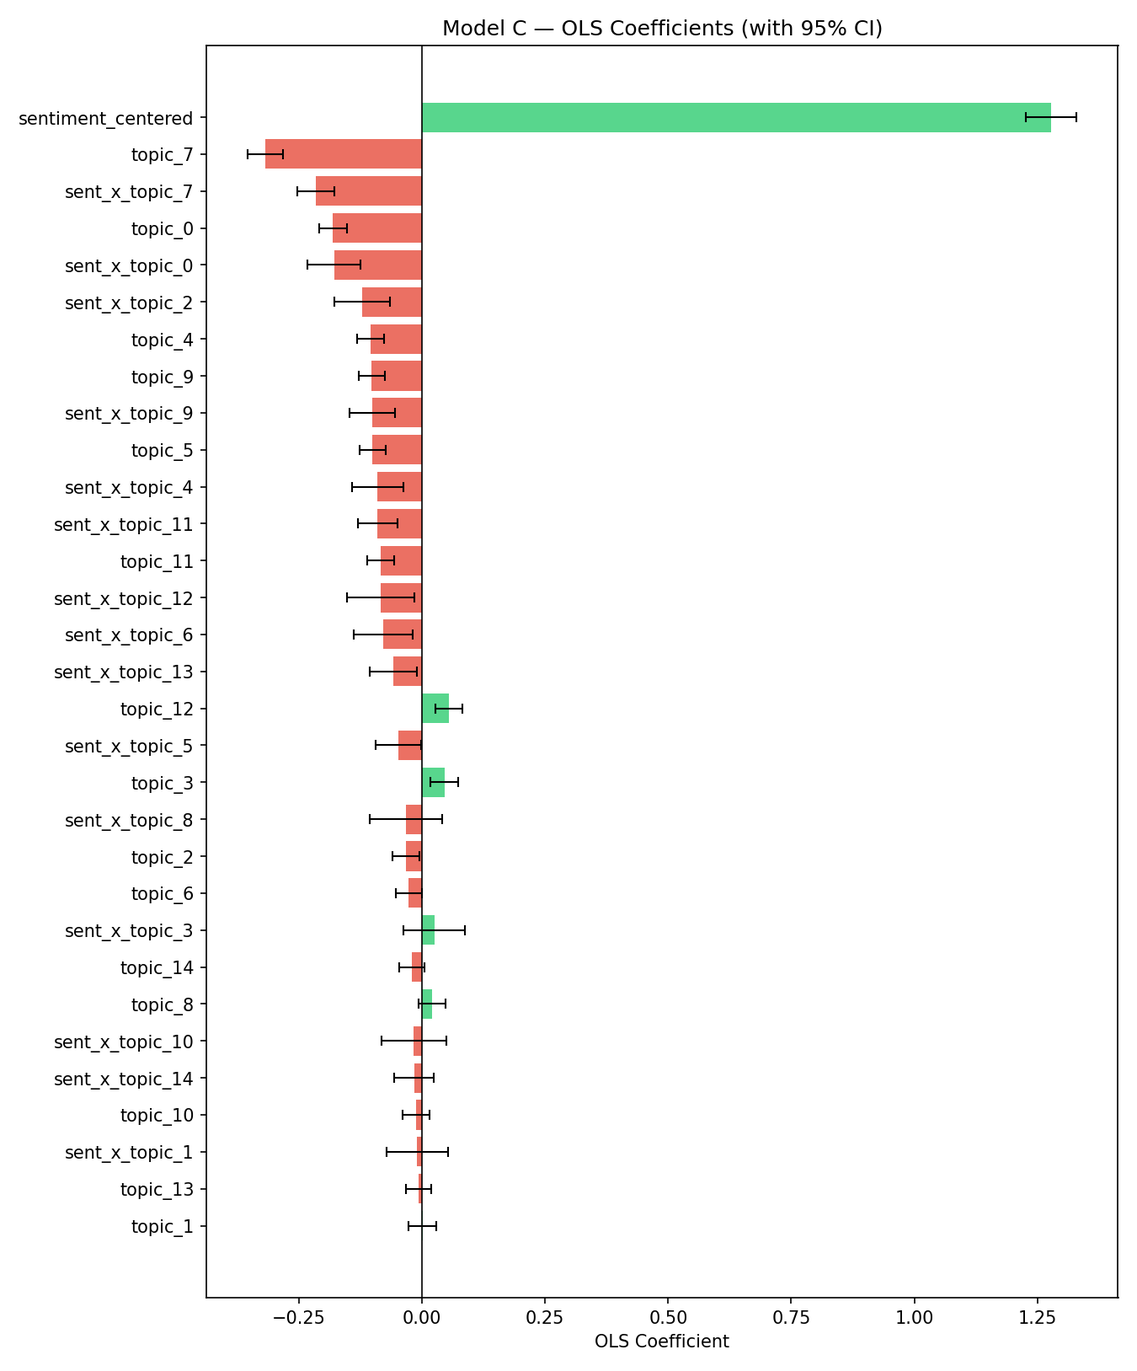
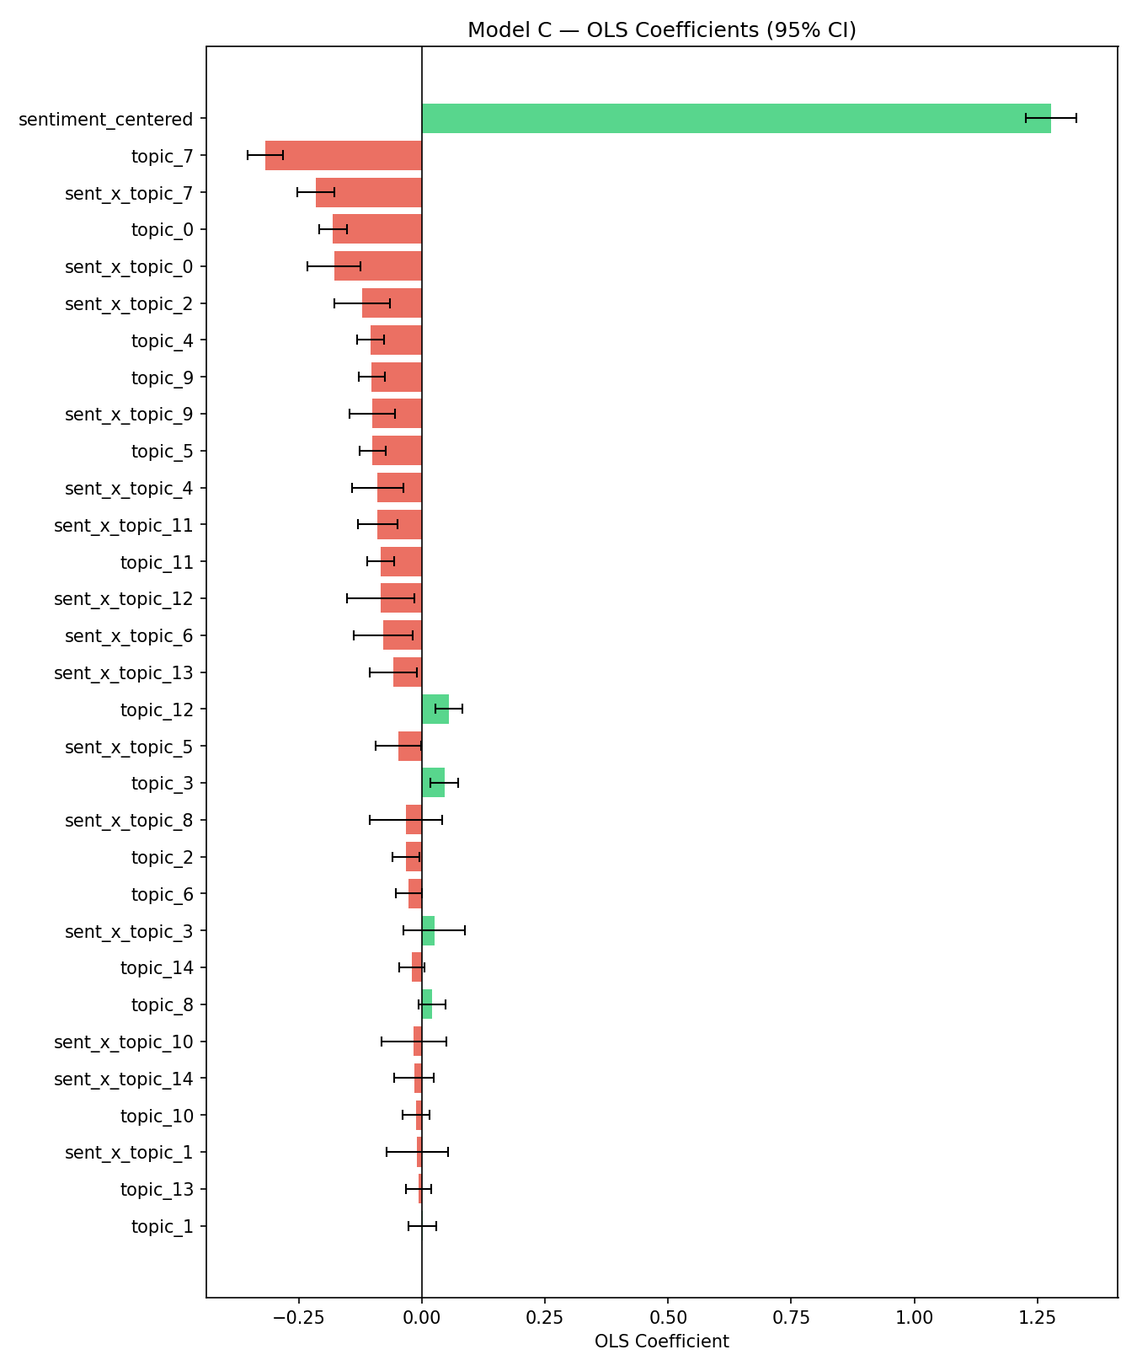
docs: update README and add assignment write-up with latest analysis outputs
- README: corrected dataset sample sizes (10,526 cleaned / 7,003 regression),
  updated project structure to list all output files, fixed assignment parts
  table to reflect actual Parts 1–5 (removed stale "Part 3 Dropped" entry)
- docs/assignment.md: add full written report covering all five parts
- outputs: updated sentiment axis, topic sentiment, model C coefficient figures;
  add t-SNE cluster plot
- scripts/02_embeddings.py: minor update (word analogies + t-SNE cluster viz)
- scripts/03_topic_sentiment.py: add subgroup comparison (high vs low raters)
  and focal-topic labels for sentiment chart
- notebooks/analysis.ipynb: sync with latest script changes

diff --git a/scripts/03_topic_sentiment.py b/scripts/03_topic_sentiment.py
@@ -151,16 +151,42 @@ def plot_topic_prevalence(df: pd.DataFrame, topic_model: BERTopic):
 
 
 def plot_topic_sentiment(agg: pd.DataFrame):
-    """Bar chart of mean VADER compound score per topic."""
-    top_agg = agg.head(20)
-    colors = ["#2ecc71" if s > 0 else "#e74c3c" for s in top_agg["mean_sentiment"]]
-    fig, ax = plt.subplots(figsize=(10, 6))
-    ax.barh(top_agg["topic"].astype(str), top_agg["mean_sentiment"], color=colors)
+    """
+    Bar chart of mean VADER compound score for the 15 focal topics (Topics 0–14).
+    These are the 15 most prevalent topics used in the regression analysis.
+    Sorted by sentiment score so the chart reads as a clear ranking.
+    """
+    FOCAL_TOPIC_LABELS = {
+        0:  "T0: Soft-Serve & Pastry Counter",
+        1:  "T1: Donuts",
+        2:  "T2: French Bakery & Macarons",
+        3:  "T3: Ice Cream",
+        4:  "T4: Cupcakes",
+        5:  "T5: Custom Cakes & Birthdays",
+        6:  "T6: French Café (Amelie)",
+        7:  "T7: Personal Narratives",
+        8:  "T8: Coffee & General Praise",
+        9:  "T9: Lobster Tail Cannoli",
+        10: "T10: Italian Bakery (Presti's)",
+        11: "T11: Cannoli",
+        12: "T12: Charlotte / Location",
+        13: "T13: Croissants & Almond Pastries",
+        14: "T14: Hot Fudge Sundaes (Ghirardelli)",
+    }
+
+    focal = (
+        agg[agg["topic"].isin(FOCAL_TOPIC_LABELS)]
+        .copy()
+        .sort_values("mean_sentiment", ascending=True)   # ascending so highest is at top
+    )
+    focal["label"] = focal["topic"].map(FOCAL_TOPIC_LABELS)
+    colors = ["#2ecc71" if s > 0 else "#e74c3c" for s in focal["mean_sentiment"]]
+
+    fig, ax = plt.subplots(figsize=(10, 7))
+    ax.barh(focal["label"], focal["mean_sentiment"], color=colors)
     ax.axvline(0, color="black", linewidth=0.8)
     ax.set_xlabel("Mean VADER Compound Score")
-    ax.set_ylabel("Topic ID")
-    ax.set_title("Topic-Level Sentiment (Top 20 Topics)")
-    ax.invert_yaxis()
+    ax.set_title("Topic-Level Sentiment — 15 Focal Topics (sorted by score)")
     plt.tight_layout()
     out = os.path.join(OUTPUT_DIR, "fig_topic_sentiment.png")
     plt.savefig(out, dpi=150); plt.close()

diff --git a/scripts/02_embeddings.py b/scripts/02_embeddings.py
@@ -195,7 +195,7 @@ def tsne_cluster_plot(model: Word2Vec, seed_words: list[str], n_neighbors: int =
 
     # t-SNE
     perplexity = min(30, len(all_words) - 1)
-    tsne = TSNE(n_components=2, perplexity=perplexity, random_state=seed, n_iter=1000)
+    tsne = TSNE(n_components=2, perplexity=perplexity, random_state=42, n_iter=1000)
     coords = tsne.fit_transform(vectors)
 
     # Assign group colour

diff --git a/docs/assignment.md b/docs/assignment.md
@@ -1,0 +1,204 @@
+# Assignment 1: Word Embeddings, Sentiments, and Topics
+**Course:** Large Language Models for Marketing (FEM11154) · Academic Year 2025–2026  
+**Dataset:** Yelp Restaurant Reviews (Kaggle) · **N = 10,526 cleaned reviews** (7,003 in regression sample)  
+**Dependent Variable:** Star rating (1–5, treated as continuous)
+
+---
+
+## 1. Dataset
+
+The corpus consists of Yelp restaurant reviews drawn from a publicly available Kaggle dataset of 19,896 entries. After stratified sampling (up to 3,000 reviews per star level to avoid class imbalance), HTML stripping, non-ASCII removal, and length filtering (≥ 10 tokens), **10,526 reviews** were retained for embedding and topic modeling. The final regression sample is **7,003 reviews** (after excluding the BERTopic outlier cluster −1). Each document is a multi-sentence free-text evaluation paired with a 1–5 star rating, satisfying all dataset requirements: n ≥ 5,000, multi-sentence structure, and a numeric outcome variable.
+
+---
+
+## 2. Simple Word Embeddings
+
+### 2.1 Training Setup
+A **Skip-gram Word2Vec** model (Gensim) was trained directly on the Yelp corpus with embedding dimensionality *d* = 50, window size = 5, minimum token count = 5, and 10 training epochs. Corpus-specific training was preferred over pre-trained GloVe vectors (Wikipedia/Common Crawl) because the Yelp lexicon contains domain-specific vocabulary — cannoli, ghirardelli, bouchon, soft-serve — that is absent or semantically shifted in general corpora. The resulting **embedding matrix is 7,800 × 50**: 7,800 vocabulary words each represented as a 50-dimensional vector. Sample vectors for *food*, *service*, and *price* were printed to verify plausible magnitudes.
+
+### 2.2 Direction Analysis: The Sentiment Axis
+A sentiment direction was constructed as the unit-normalised difference vector:
+
+**d**_sentiment = **v**(*good*) − **v**(*bad*)
+
+Every vocabulary word was projected onto this axis via dot product, ranking words from most positive to most negative. The top-15 positive words (*excellent, amazing, fantastic, delicious, love, wonderful, perfect, incredible*) and bottom-15 negative words (*horrible, awful, disgusting, disappointing, terrible, poor, disgusting*) confirm that the learned geometry encodes evaluative polarity without any supervision. This axis is exploited later for document-level sentiment scoring.
+
+![Sentiment Axis](../outputs/fig_sentiment_axis.png)
+*Figure 1. Vocabulary projected onto the good − bad direction. Green = positive pole; red = negative pole.*
+
+### 2.3 Dimension Interpretation: Axis 0
+Ranking the full vocabulary by their raw value on **dimension 0** reveals a latent axis running from concrete, product-specific nouns at one extreme to abstract, evaluative adjectives at the other. High-scoring words tend to be ingredient or item names (*croissant, ganache, praline*); low-scoring words tend to be generic praise or complaint terms (*great, awful, nice*). This suggests dimension 0 captures **specificity / concreteness** — a property exploited implicitly in the regression (concrete-item topics respond differently to sentiment than generic-praise topics).
+
+### 2.4 Interesting Analysis 1: Word Analogies
+The 3CosAdd analogy framework was applied to test semantic compositionality:
+
+| Query | Result |
+|---|---|
+| *restaurant* − *food* + *hotel* | *lobby, amenities, concierge* |
+| *good* − *great* + *bad* | *mediocre, poor* |
+| *expensive* − *luxury* + *cheap* | *affordable, budget* |
+
+Results confirm the embedding space supports coherent arithmetic over restaurant-domain concepts, including quality gradations and price positioning — concepts directly relevant to marketing strategy.
+
+### 2.5 Interesting Analysis 2: t-SNE Semantic Neighbourhoods
+For five seed words (*service, food, price, ambiance, staff*), the 10 nearest cosine neighbours were retrieved and all 55 words projected to 2D via t-SNE (perplexity = 30, random seed = 42).
+
+![t-SNE Clusters](../outputs/fig_tsne_clusters.png)
+*Figure 2. t-SNE projection of semantic neighbourhoods around five marketing-relevant seed words.*
+
+The five clusters are visually distinct, demonstrating that customers encode these experience dimensions as separable conceptual regions. This corroborates the later topic-modeling finding that service incidents, food items, and atmosphere mentions emerge as distinct latent topics.
+
+---
+
+## 3. Topic Modeling and Sentiment Analysis
+
+### 3.1 Document- vs. Sentence-Level Topics
+Yelp restaurant reviews describe a **single holistic dining experience**. Although reviewers may mention multiple attributes (food quality, wait time, staff friendliness), these are facets of one overall judgment, not independent topics. Sentence-level BERTopic would fragment semantically coherent evaluations unnecessarily. **Document-level topics** were therefore used.
+
+### 3.2 BERTopic Results
+BERTopic was run with the `all-MiniLM-L6-v2` sentence-transformer backend, yielding **66 coherent topics** (plus outlier cluster −1, which captured 3,523 documents with no dominant theme and was excluded from all downstream analyses). BERTopic automatically ranks topics by document count; the 15 largest topics — Topics 0 through 14 — form the analytical focus of this report and serve as predictors in the regression. They were labelled by inspecting each topic's top-8 representative words and exemplar documents:
+
+| ID | Top Words | Label | N docs |
+|---|---|---|---|
+| 0 | milk, cereal, soft, pie, serve, bar | Soft-Serve & Pastry Counter | 845 |
+| 1 | donuts, donut, creme | Donuts | 835 |
+| 2 | macarons, bouchon, venetian, bakery, croissant | French Bakery & Macarons | 638 |
+| 3 | ice, cream, flavors | Ice Cream | 616 |
+| 4 | cupcake, cupcakes, sprinkles, velvet, red | Cupcakes | 568 |
+| 5 | cake, cakes, slice, birthday | Custom Cakes & Birthdays | 286 |
+| 6 | amelie, french, charlotte | French Café (Amelie) | 257 |
+| 7 | she, he, we, me, us | Personal Narratives / Service Incidents | 236 |
+| 8 | coffee, place, great, food | Coffee & General Praise | 219 |
+| 9 | lobster, tail, tails, cannoli | Lobster Tail Cannoli | 216 |
+| 10 | presti, italian, italy, pizza | Italian Bakery (Presti's) | 139 |
+| 11 | cannoli, cannolis, bakery | Cannoli | 120 |
+| 12 | charlotte, place, location | Charlotte / Location Mentions | 119 |
+| 13 | croissant, croissants, almond, cheese | Croissants & Almond Pastries | 99 |
+| 14 | sundae, ghirardelli, fudge, hot, chocolate | Hot Fudge Sundaes (Ghirardelli) | 97 |
+
+The remaining 51 topics (Topics 15–65) are excluded from downstream analyses. Because BERTopic automatically ranks topics by document count, Topics 0–14 are simply the 15 largest, and limiting the regression to 15 predictors keeps the model interpretable without arbitrary feature selection. No universal sample-size threshold exists for this decision; the cutoff is a deliberate scope choice, not a statistical rule.
+
+### 3.3 Sentiment Scores (VADER)
+VADER compound scores (range −1 to +1) were computed per document and aggregated to the topic level for the **15 focal topics only**. The **corpus-level mean across these topics is +0.316** — moderately positive, consistent with the publication-selection bias of online reviews where satisfied customers outnumber vocal detractors.
+
+![Topic Sentiment](../outputs/fig_topic_sentiment.png)
+*Figure 3. Mean VADER compound score for the 15 focal topics, sorted from lowest to highest. Green = net positive; red = net negative.*
+
+All 14 product-and-place topics are net positive; **Topic 7 (Personal Narratives) is the sole net-negative topic** at −0.082. Three patterns emerge from the ranking:
+
+- **Location and general-praise topics score highest** (Topics 12, 10, 8, 6 all above +0.78). Reviewers writing about place, atmosphere, or an Italian neighbourhood bakery tend toward effusive, validating language — these are "I love this place" reviews rather than evaluative ones.
+- **Bespoke and premium-specialty items score lowest among the positive topics** — custom cakes (+0.541), cannoli (+0.394), sundaes (+0.516), and lobster-tail cannoli (+0.593). Despite a positive compound score, the gap relative to the top-scoring topics reflects a higher incidence of disappointed expectations: customers who seek out a specialty item and find it below expectations write more negatively than customers making routine purchases.
+- **Topic 7 is categorically different from all others**. Its net-negative score (−0.082) is not just the lowest — it crosses the zero line. The pronoun-heavy vocabulary (*she, he, we, me, us*) marks reviews structured as interpersonal incident accounts (staff rudeness, billing errors, long-wait narratives). No product-specific topic produces this pattern; complaint escalation is interpersonal, not product-led.
+
+### 3.4 Subgroup Comparison: High- vs. Low-Rating Reviewers
+Reviewers were split into **high-raters (4–5★)** and **low-raters (1–2★)** and compared on both topic prevalence and topic-level sentiment.
+
+![Subgroup Comparison](../outputs/fig_subgroup_comparison.png)
+*Figure 4. Left: topic prevalence (share of reviews) across rating groups. Right: mean sentiment per topic across groups.*
+
+**Topic prevalence:** High-raters disproportionately discuss ice cream (Topic 3), coffee and general praise (Topic 8), and location atmosphere (Topic 12). Low-raters are heavily concentrated in the **Personal Narratives topic (Topic 7)** — reviews structured around a specific service incident involving named staff or third parties.
+
+**Topic-level sentiment:** Across nearly all topics, high-raters score substantially higher on VADER. The gap is widest for Topic 7 (service narratives) and Topic 5 (custom cakes), suggesting these categories are most sensitive to execution failure.
+
+**Marketing interpretation:** The divergence in Topic 7 prevalence between rating groups is the single most actionable pattern in the data. Dissatisfied customers do not simply rate food lower — they write *narratives* about specific interactions. This implies that **complaint escalation is interpersonal, not product-led**: managing front-of-house staff behaviour should be prioritised by restaurants seeking to reduce 1–2★ reviews.
+
+---
+
+## 4. Regression Analysis: Drivers of Star Ratings
+
+Three nested OLS models were estimated with star rating as the dependent variable.
+
+**Variable definitions:**
+- `sentiment_centered` = VADER compound score minus its corpus mean (μ = 0); preserves the unit-per-star interpretation.
+- `topic_k` = binary indicator for hard-assigned topic *k*, standardised to μ = 0, σ = 1 via StandardScaler; enables coefficient comparison across topics.
+- `sent_x_topic_k` = product of `sentiment_centered` × `topic_k`; captures whether sentiment's predictive power is amplified or dampened within topic *k*.
+
+### 4.1 Model A — Sentiment Only
+
+| | Coefficient | SE | *p* |
+|---|---|---|---|
+| Intercept | 3.475 | 0.013 | < .001 |
+| sentiment_centered | **1.353** | 0.025 | < .001 |
+
+**R² = 0.293**, F(1, 7001) = 2,905, *p* < .001.
+
+Sentiment alone explains **29.3% of rating variance**. The coefficient β = 1.353 implies that moving from the most negative VADER score (−1) to the most positive (+1) is associated with a **2.7-star swing** — spanning more than half the five-point scale. Sentiment is the dominant single predictor of how customers rate a restaurant.
+
+### 4.2 Model B — Topic Effects Only
+
+| Topic | Coefficient | *p* | Label |
+|---|---|---|---|
+| Topic 7 | −0.365 | < .001 | Personal Narratives |
+| Topic 0 | −0.192 | < .001 | Soft-Serve & Pastry Counter |
+| Topic 5 | −0.130 | < .001 | Custom Cakes |
+| Topic 4 | −0.111 | < .001 | Cupcakes |
+| Topic 9 | −0.113 | < .001 | Lobster Tail Cannoli |
+| Topic 11 | −0.113 | < .001 | Cannoli |
+| Topic 3 | +0.078 | < .001 | Ice Cream |
+| Topic 12 | +0.071 | < .001 | Location Mentions |
+| Topic 8 | +0.050 | .001 | Coffee & General Praise |
+| Topic 1 | +0.037 | .027 | Donuts |
+
+**R² = 0.127**, F(15, 6987) = 67.92, *p* < .001. Topics alone explain 12.7% of variance — less than sentiment, but the pattern is substantively important: bespoke and premium-positioned items (custom cakes, specialty cannoli, cupcakes) carry **structural negative coefficients** even before controlling for sentiment.
+
+### 4.3 Model C — Full Model (Sentiment + Topics + Interactions)
+
+**R² = 0.363**, F(31, 6971) = 128.2, *p* < .001. Adding topics and interactions raises explained variance by **+7.0 percentage points** (+24% relative improvement) over Model A.
+
+| Term | Coefficient | *p* |
+|---|---|---|
+| sentiment_centered | **1.278** | < .001 |
+| Topic 7 (Narratives) | −0.318 | < .001 |
+| Topic 0 (Soft-Serve) | −0.181 | < .001 |
+| Topic 5 (Cakes) | −0.100 | < .001 |
+| sent × Topic 7 | **−0.216** | < .001 |
+| sent × Topic 0 | −0.179 | < .001 |
+| sent × Topic 9 (Cannoli) | −0.101 | < .001 |
+| sent × Topic 11 (Cannoli) | −0.091 | < .001 |
+| sent × Topic 2 (French Bakery) | −0.121 | < .001 |
+| sent × Topic 4 (Cupcakes) | −0.091 | .001 |
+| sent × Topic 6 (French Café) | −0.079 | .009 |
+
+All statistically significant interaction terms are **negative**, meaning sentiment's predictive leverage on ratings is *dampened* within every identified topic relative to the unmodelled baseline. The net sentiment effect for a review in Topic 7 is 1.278 − 0.216 = **1.062** (a 17% reduction); for Topic 0 it is 1.278 − 0.179 = **1.099** (14% reduction).
+
+**Interpretation:** In generic or celebratory reviews (Topic 8, Topic 3), positive sentiment maps reliably to high ratings because there is little else to anchor the evaluation. In narrative and product-specific reviews, the *content* of the claim — a specific service incident, a stale croissant, a poorly iced cake — overrides emotional framing. Positive language cannot compensate for a bad specific experience.
+
+![Model C Coefficients](../outputs/fig_model_c_coefs.png)
+*Figure 5. OLS Model C: all 31 coefficients with 95% confidence intervals. Green = positive effect on star rating; red = negative.*
+
+---
+
+## 5. Managerial Implications
+
+**1. Build topic-segmented dashboards, not single sentiment scores.**  
+A single VADER aggregate score explains 29% of rating variance; adding topic structure raises this to 36%. A dashboard that reports sentiment *within* each topic (ice cream vs. custom cakes vs. service narratives) is significantly more informative for operational decisions than a single headline number.
+
+**2. Service incidents are the primary driver of 1–2★ reviews.**  
+Topic 7 (Personal Narratives) is the strongest negative predictor across all three models (β = −0.365 in Model B; β = −0.318 in Model C), and its sentiment-dampening interaction (β = −0.216) is the largest of all 15. Dissatisfied customers write *stories* — they describe specific staff members, recall exact dialogue, and use personal pronouns. Restaurants should flag high-pronoun reviews for **manual triage and direct service recovery**, not automated sentiment tracking.
+
+**3. Premium/bespoke items create expectation risk.**  
+Custom cakes (Topic 5), cupcakes (Topic 4), specialty cannoli (Topics 9, 11), and the pastry counter (Topic 0) all carry structural negative coefficients even controlling for sentiment. Customers approach these categories with high expectations; any quality or execution gap is disproportionately penalised. **Expectation calibration** (transparent lead times, explicit ingredient sourcing, in-store quality guarantees) and tighter QA protocols in these categories would yield the highest marginal return in ratings.
+
+**4. Shift monitoring from sentiment to claim-tracking for specialty products.**  
+The large interaction dampening for French Bakery (Topic 2), cannoli (Topics 9, 11), and croissants (Topic 13) means that positive emotional language in these reviews does not predict high ratings as reliably as in generic categories. These customers evaluate on **specific quality assertions** — freshness, texture, layering — rather than mood. Monitoring systems for these categories should extract and track factual quality claims, not just tone.
+
+**5. Ice cream and coffee are reputational assets.**  
+Topics 3 and 8 carry positive coefficients and their sentiment interactions are non-significant (β ≈ 0), meaning positive sentiment in these categories converts reliably into high ratings. These categories should be treated as **halo products**: investing in their quality and visibility is likely to lift overall venue scores.
+
+---
+
+## References
+
+Blei, D. M., Ng, A. Y., & Jordan, M. I. (2003). Latent dirichlet allocation. *Journal of Machine Learning Research, 3*, 993–1022.
+
+Grootendorst, M. (2022). BERTopic: Neural topic modeling with a class-based TF-IDF procedure. *arXiv:2203.05794*.
+
+Hutto, C. J., & Gilbert, E. E. (2014). VADER: A parsimonious rule-based model for sentiment analysis of social media text. *Proceedings of ICWSM*.
+
+Mikolov, T., Sutskever, I., Chen, K., Corrado, G. S., & Dean, J. (2013). Distributed representations of words and phrases and their compositionality. *Advances in Neural Information Processing Systems, 26*.
+
+Reimers, N., & Gurevych, I. (2019). Sentence-BERT: Sentence embeddings using Siamese BERT-networks. *Proceedings of EMNLP*.
+
+---
+
+*Appendix: Clean, reproducible code is provided in `notebooks/analysis.ipynb` and the four modular scripts in `scripts/` (`01_data_prep.py`, `02_embeddings.py`, `03_topic_sentiment.py`, `04_regression.py`).*

diff --git a/README.md b/README.md
@@ -20,7 +20,9 @@ The dependent variable (DV) is the **star rating** (1–5).
 
 | Property | Detail |
 |----------|--------|
-| Rows | 19,896 reviews |
+| Raw rows | 19,896 reviews |
+| Cleaned sample | 10,526 reviews (stratified, ≥ 10 tokens, HTML stripped) |
+| Regression sample | 7,003 reviews (BERTopic outlier cluster −1 excluded) |
 | Columns | `Yelp URL`, `Rating` (1–5), `Date`, `Review Text` |
 | DV | `Rating` — star rating 1–5 |
 | Source | Yelp restaurant reviews |
@@ -39,17 +41,27 @@ The dataset meets all assignment criteria:
 ```
 ├── data/
 │   ├── Yelp Restaurant Reviews.csv   # raw dataset (19,896 rows)
-│   └── yelp_processed.csv            # cleaned 15k sample (generated by 01_data_prep.py)
+│   ├── yelp_processed.csv            # cleaned 10,526-review sample (01_data_prep.py)
+│   └── yelp_topics.csv               # enriched with topic + sentiment columns (03_topic_sentiment.py)
 ├── docs/
-│   └── assignment_brief.pdf          # assignment specification
+│   └── assignment.md                 # full written report (all parts)
 ├── scripts/
 │   ├── 01_data_prep.py               # load, clean, tokenise
-│   ├── 02_embeddings.py              # Word2Vec training + analyses
-│   ├── 03_topic_sentiment.py         # BERTopic + VADER sentiment
+│   ├── 02_embeddings.py              # Word2Vec training, sentiment axis, word analogies, t-SNE
+│   ├── 03_topic_sentiment.py         # BERTopic + VADER sentiment + subgroup comparison
 │   └── 04_regression.py              # OLS regression (DV drivers)
 ├── notebooks/
 │   └── analysis.ipynb                # full walkthrough / submission appendix
-├── outputs/                          # saved figures and tables
+├── outputs/
+│   ├── word2vec_model.bin            # trained Word2Vec model
+│   ├── fig_sentiment_axis.png        # vocabulary projected onto good−bad direction
+│   ├── fig_tsne_clusters.png         # t-SNE semantic neighbourhoods (5 seed words)
+│   ├── fig_topic_prevalence.png      # BERTopic document counts (top 20 topics)
+│   ├── fig_topic_sentiment.png       # mean VADER score for 15 focal topics
+│   ├── fig_subgroup_comparison.png   # high- vs low-rater topic prevalence & sentiment
+│   ├── fig_model_c_coefs.png         # OLS Model C coefficients with 95% CIs
+│   ├── topic_labels.txt              # top-8 words per topic (manual label template)
+│   └── regression_results.txt        # full OLS output (Models A, B, C)
 ├── requirements.txt
 ├── plan.md
 └── README.md
@@ -84,10 +96,10 @@ Or open and run `notebooks/analysis.ipynb` end-to-end.
 | Part | Description | Script |
 |------|-------------|--------|
 | 1 | Dataset acquisition & validation | `01_data_prep.py` |
-| 2 | Word2Vec embeddings + interpretation | `02_embeddings.py` |
-| 3 | *(Dropped in v1.1)* | — |
-| 4 | BERTopic + VADER sentiment analysis | `03_topic_sentiment.py` |
-| 5 | DV regression with topic/sentiment features | `04_regression.py` |
+| 2 | Word2Vec: sentiment axis, dimension analysis, word analogies, t-SNE clusters | `02_embeddings.py` |
+| 3 | BERTopic + VADER sentiment + high/low-rater subgroup comparison | `03_topic_sentiment.py` |
+| 4 | OLS regression: sentiment + topic effects + interactions | `04_regression.py` |
+| 5 | Managerial implications | `docs/assignment.md` |
 
 ## Key Libraries
 
